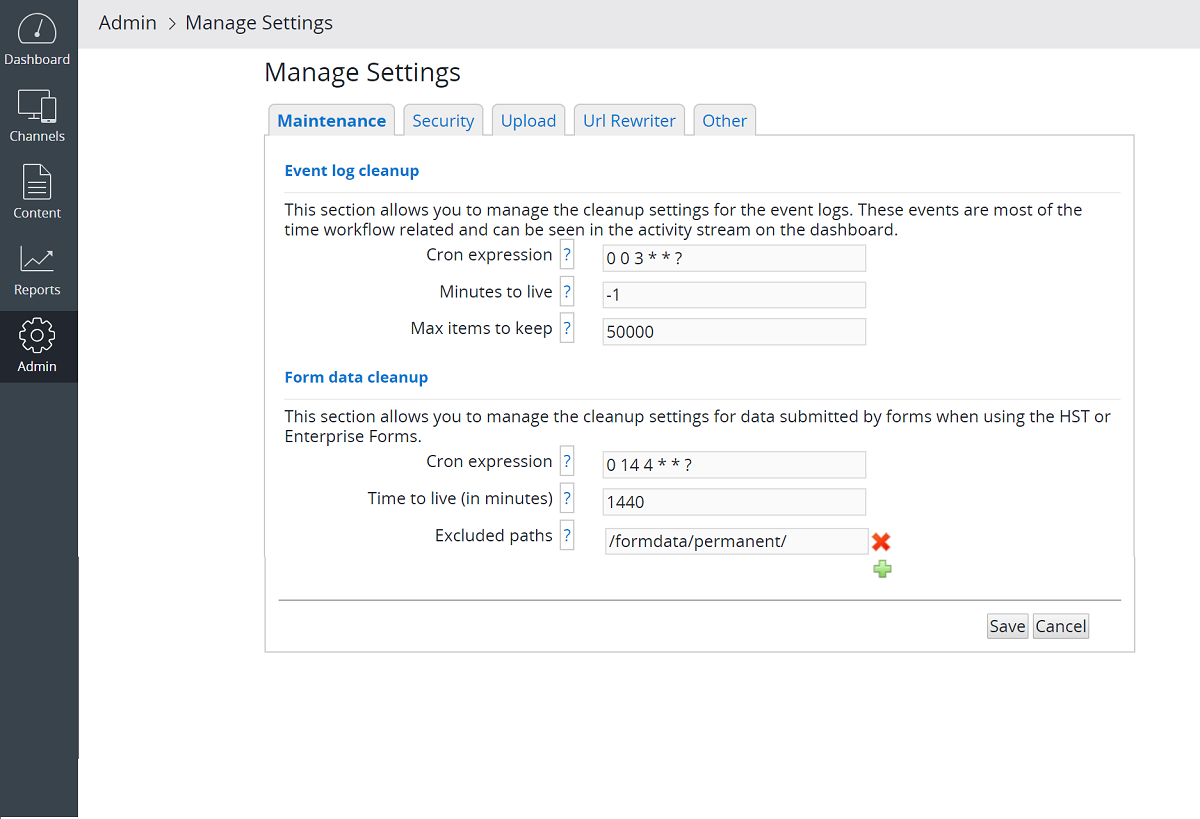
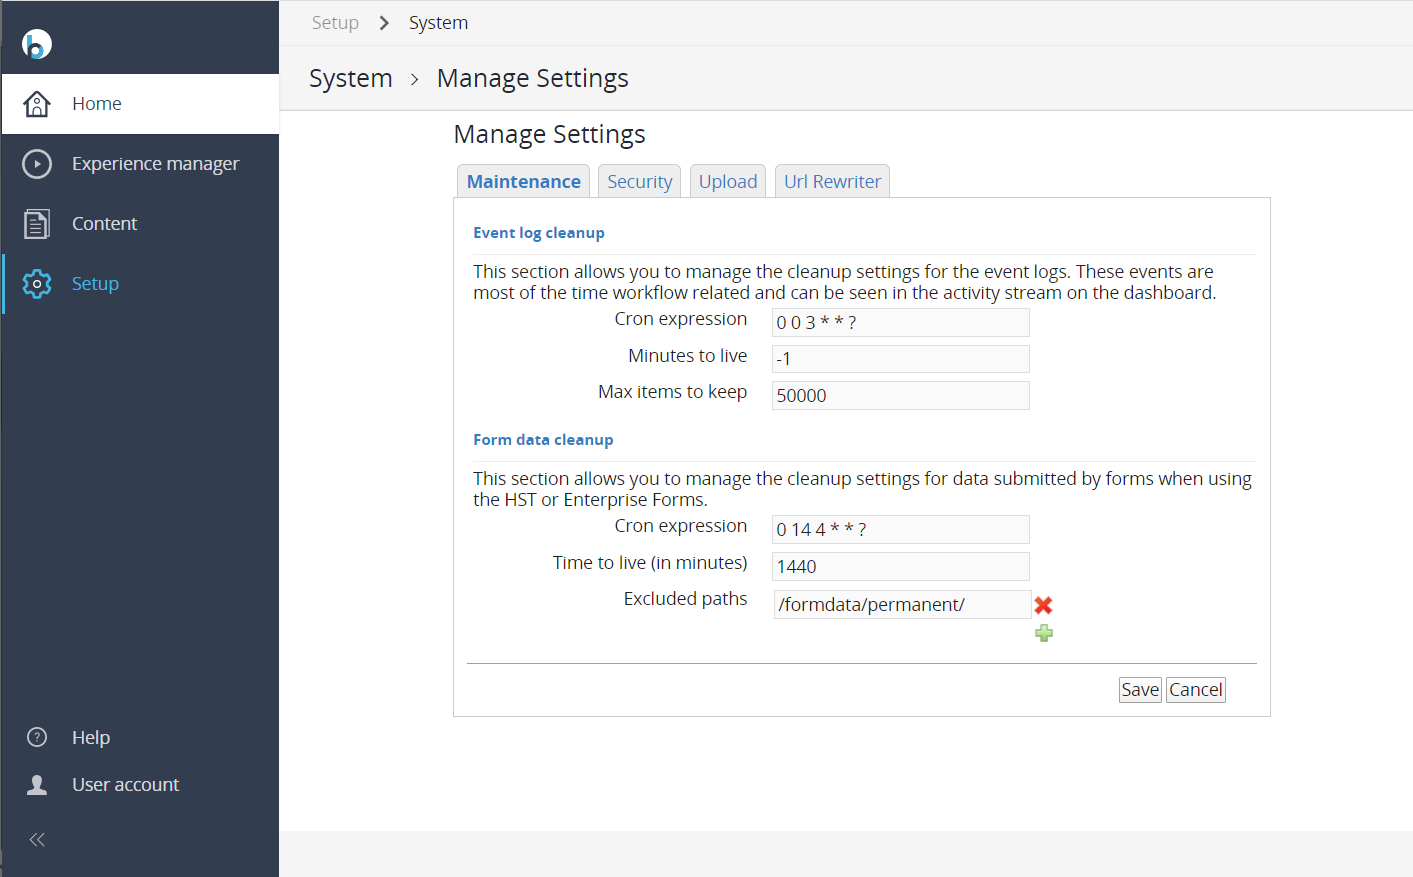
Upgrade to 14: documentation, new screenshots

Changed region(s): [[0.0, 0.0, 0.925, 1.0], [0.3083, 0.7326, 0.925, 0.8242], [0.555, 0.4274, 0.5858, 0.4579]]

diff --git a/src/site/markdown/release-notes.md b/src/site/markdown/release-notes.md
@@ -16,11 +16,21 @@
 
 ## Release notes
 
+### Version 3.0.0 
+Release date: 29 January 2020
+
++ Upgrade to Bloomreach Experience Manager 14, including the demo project.<br/>
+  The "Other" section (tab) was removed since it contained only settings for the Social Sharing plugin, which was
+  removed from version 14.   
++ The translations of configured tabs moved from hippo:translation subnodes below<br/>
+ ```/hippo:configuration/hippo:frontend/cms/cms-admin/settings/tabconfig``` to <br/>
+ ```/hippo:configuration/hippo:translations/hippo:cms/settingsmanagement```.
+
 ### Version 2.0.0 
 Release date: 2 March 2019
 
 + [HIPFORGE-278](https://issues.onehippo.com/browse/HIPFORGE-278)<br/> 
-  Upgrade to Bloomreach CMS 13, including demo project. 
+  Upgrade to Bloomreach Experience Manager 13, including the demo project. 
   This also entails renaming of Maven coordinates and Java packaging from 'onehippo' to 'bloomreach'. 
   When upgrading, please revisit the [installation page](install.html).
 + [HIPFORGE-271](https://issues.onehippo.com/browse/HIPFORGE-271)<br/>
@@ -29,7 +39,6 @@ Release date: 2 March 2019
   Remove the BrokenLinksChecker panel since the checker is no longer present in 13.
 + [HIPFORGE-280](https://issues.onehippo.com/browse/HIPFORGE-280)<br/>
   Make add/remove form data exclude paths work.
-
 
 ### Version 1.0.0 
 Release date: 26 Feb 2018

diff --git a/src/site/markdown/adding-features.md b/src/site/markdown/adding-features.md
@@ -33,7 +33,7 @@ Add the frontend api to your custom feature module.
 <dependency>
   <groupId>org.bloomreach.forge.settingsmanagement</groupId>
   <artifactId>bloomreach-settingsmanagement-frontend-api</artifactId>
-  <version>1.0.0</version>
+  <version>3.0.0</version>
 </dependency>
 ```
 
@@ -160,7 +160,7 @@ And adding the markup for our panel.
 
 Be sure to create node /hippo:configuration/hippo:frontend/cms/cms-admin/settings/tabconfig/security/usermanagement
 
-For Hippo 12, this node is bootstrapped by a yaml file, e.g. at repository-data/application/src/main/resources/hcm-config/configuration/admin/usermanagement.yaml:
+This node is bootstrapped by a yaml file, e.g. at repository-data/application/src/main/resources/hcm-config/configuration/admin/usermanagement.yaml:
 
 ```yaml
 definitions:
@@ -172,6 +172,3 @@ definitions:
 ```
 
 As you can see you can control the order of your item in an existing category by changing the sequence property of the node.
-
-
-Before you start it's highly recommended to take a look at the [existing code](source-repository.html) for examples and references.

diff --git a/src/site/markdown/install.md b/src/site/markdown/install.md
@@ -41,7 +41,7 @@ In the main pom.xml of the project, in the repositories section, add this reposi
 ### Installation in CMS
 Add this property to the properties section of the *root* pom.xml:
 
-    <bloomreach.forge.settingsmanagement.version>2.0.0</bloomreach.forge.settingsmanagement.version>
+    <bloomreach.forge.settingsmanagement.version>3.0.0</bloomreach.forge.settingsmanagement.version>
 
 Select the correct version for your project. See the [release notes](release-notes.html) for more information on which version is applicable.
 
@@ -63,7 +63,7 @@ Add these two dependency to the pom.xml of your *cms-dependencies* (or *cms*) mo
 ```
 
 <div class="alert alert-info">
-    Note: before version 2.0, the artifacts' groupId was <code>org.onehippo.forge.settingsmanagement</code> and
+    Note: before version 2.0.0, the artifacts' groupId was <code>org.onehippo.forge.settingsmanagement</code> and
     the artifactIds started with <code>hippo-addon-settings-management</code>. 
 </div>
 

diff --git a/src/site/markdown/index.md b/src/site/markdown/index.md
@@ -24,7 +24,8 @@ See more [screenshots](screenshots.html).
 
 ## Status
 
-Version 2.x runs on Bloomreach CMS 13, 1.0 runs on Bloomreach CMS 12, 0.5.x runs on Hippo CMS 11. 
+Version 3.x runs on Bloomreach Experience Manager 13, version 2.x runs on Bloomreach XM 13, 
+1.0 runs on Bloomreach XM 12, 0.5.x runs on Hippo CMS 11. 
 See more at the [release notes](release-notes.html).  
 
 ## How you can contribute

diff --git a/src/site/markdown/screenshots.md b/src/site/markdown/screenshots.md
@@ -28,5 +28,5 @@
 ### Upload category
 ![Upload Category](images/upload_panel.png)
 
-### Other category
-![Other Category](images/other_panel.png)
+### Url Rewriter
+![Url Rewriter](images/urlrewriter_panel.png)
